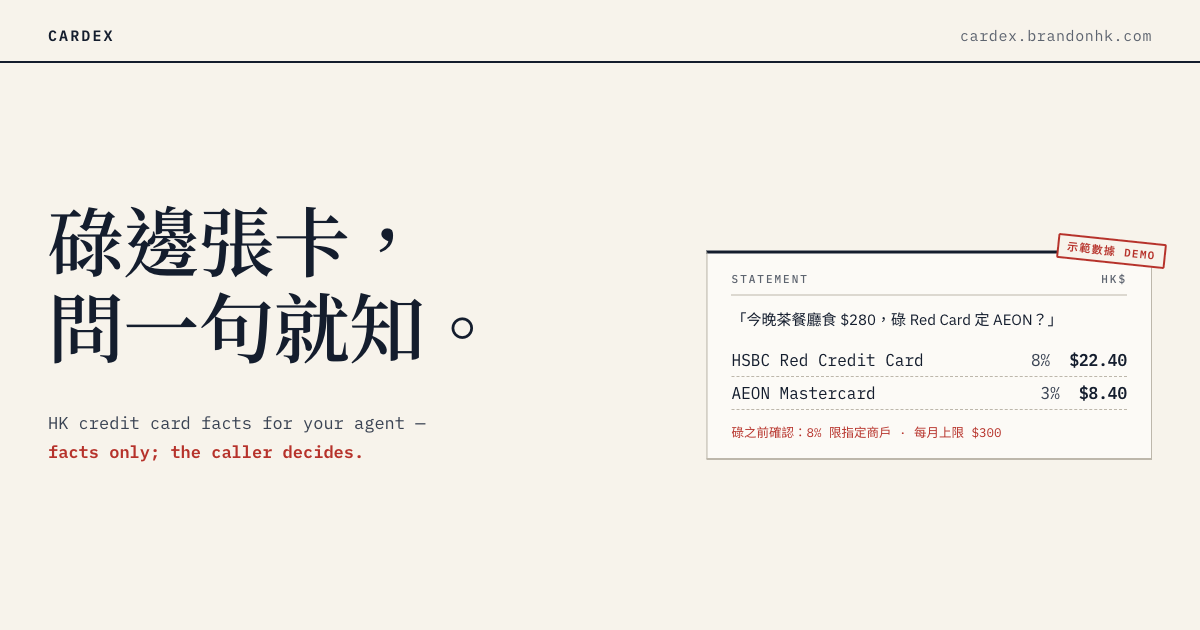
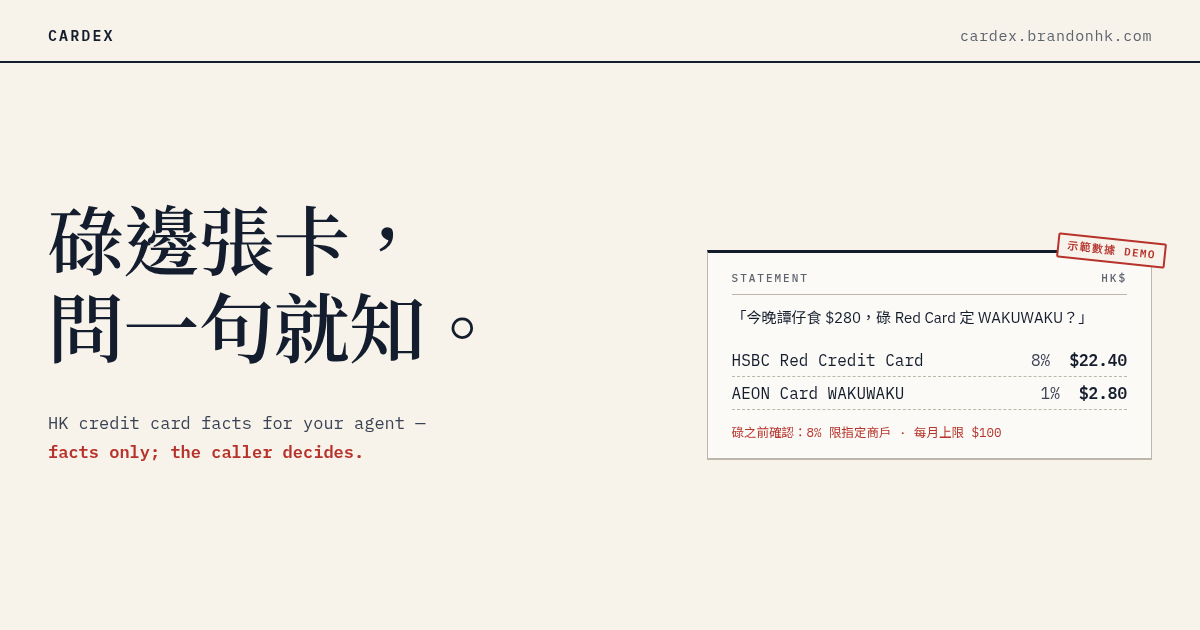
fix(site): demo a listed-merchant meal and sort by rebate
The slip implied Red pays 8% at any cha chaan teng. The scenario
is now dinner at TamJai, a listed merchant, so the merchant check
resolves and the 8% applies for the right reason; a new note under
the table says the boosted rate is designated-merchant only.

- demo-score.json regenerated from a real score_candidates call
  ({ amount_hkd: 280, alias: "茶餐廳", merchant: "譚仔",
    card_ids: [card_hsbc_red, card_aeon] }) on the updated seed.
- Candidates sort by calculated rebate for display; the tool keeps
  card_id order — the caller sorts, per PRD.
- Foot stops claiming every figure shows an issuer-terms link and
  a last-checked date (the slip shows neither); it now cites the
  seed date and defers that promise to verified records, matching
  the stamp and FAQ.
- og.png re-rendered from designs/og/og.html to match.

diff --git a/packages/site/src/i18n/en.ts b/packages/site/src/i18n/en.ts
@@ -46,18 +46,19 @@ export const en: UI = {
     label: "Example answer",
     by: "your assistant + Cardex",
     askedLabel: "You asked",
-    asked: "“Dinner at a cha chaan teng tonight, about $280. Red Card or AEON?”",
+    asked: "“Dinner at TamJai tonight, about $280. Red Card or WAKUWAKU?”",
     colCard: "Card",
     colRate: "Dining",
     colBack: "Back on $280",
+    note: "Red's 8% is a designated-merchant rate — it applies because TamJai is on the illustrative list.",
     catchHeading: "Before you tap, check",
     unknowns: {
       cap_remaining: "{card} caps this rebate each month. How much have you earned so far?",
       merchant_list: "{card} only pays this rate at listed merchants. Is this one on the list?",
       octopus_topup: "{card} excludes Octopus top-ups. Not relevant to dinner.",
     },
-    cardNames: { card_hsbc_red: "Red Card", card_aeon: "AEON" },
-    foot: "Figures and open checks are Cardex's real response on illustrative data. Every figure links to the issuer's terms and the date it was last checked.",
+    cardNames: { card_hsbc_red: "Red Card", card_aeon: "WAKUWAKU" },
+    foot: "Figures and open checks are Cardex's real response on the illustrative seed (as of {date}), not issuer terms. Verified records carry the terms link and last-checked date.",
     stamp: ["Illustrative", "not real terms"],
   },
   pain: {

diff --git a/packages/site/src/i18n/zh-HK.ts b/packages/site/src/i18n/zh-HK.ts
@@ -44,18 +44,19 @@ export const zhHK = {
     label: "示範答案",
     by: "你嘅 AI 助手 + Cardex",
     askedLabel: "你問",
-    asked: "「今晚茶餐廳食 $280，碌 Red Card 定 AEON？」",
+    asked: "「今晚譚仔食 $280，碌 Red Card 定 WAKUWAKU？」",
     colCard: "卡",
     colRate: "食肆",
     colBack: "$280 回贈",
+    note: "Red 嘅 8% 只限指定商戶——譚仔喺示範名單上，先計到呢個率。",
     catchHeading: "碌之前確認吓",
     unknowns: {
       cap_remaining: "{card} 回贈每月有上限，你今個月賺咗幾多？",
       merchant_list: "{card} 呢個回贈只限指定商戶，呢間喺唔喺名單？",
       octopus_topup: "{card} 唔計八達通增值，食飯唔關事。",
     },
-    cardNames: { card_hsbc_red: "Red Card", card_aeon: "AEON" },
-    foot: "數字同待確認項目係 Cardex 對示範數據嘅真實回應；每個數字都附發卡行條款連結同最後核實日期。",
+    cardNames: { card_hsbc_red: "Red Card", card_aeon: "WAKUWAKU" },
+    foot: "數字同待確認項目係 Cardex 對示範數據（{date}）嘅真實回應，唔係發卡行條款；真數據會附條款連結同最後核實日期。",
     stamp: ["示範數據", "非真實條款"],
   },
   pain: {

diff --git a/designs/og/og.html b/designs/og/og.html
@@ -11,7 +11,7 @@
 <html lang="zh-HK">
   <head>
     <meta charset="utf-8" />
-    <link rel="stylesheet" href="/_astro/Base.h-n_gzan.css" />
+    <link rel="stylesheet" href="/_astro/Base.W7Cmhq_e.css" />
     <style>
       :root {
         --color-paper: oklch(96.5% 0.012 85);
@@ -70,10 +70,10 @@
       <div class="slip">
         <div class="og-stamp">示範數據 DEMO</div>
         <div class="head"><span>STATEMENT</span><span>HK$</span></div>
-        <p class="q">「今晚茶餐廳食 $280，碌 Red Card 定 AEON？」</p>
+        <p class="q">「今晚譚仔食 $280，碌 Red Card 定 WAKUWAKU？」</p>
         <div class="row"><span>HSBC Red Credit Card</span><span><span class="pct">8%</span>&nbsp;&nbsp;<span class="amt">$22.40</span></span></div>
-        <div class="row"><span>AEON Mastercard</span><span><span class="pct">3%</span>&nbsp;&nbsp;<span class="amt">$8.40</span></span></div>
-        <div class="warn">碌之前確認：8% 限指定商戶 · 每月上限 $300</div>
+        <div class="row"><span>AEON Card WAKUWAKU</span><span><span class="pct">1%</span>&nbsp;&nbsp;<span class="amt">$2.80</span></span></div>
+        <div class="warn">碌之前確認：8% 限指定商戶 · 每月上限 $100</div>
       </div>
     </div>
   </body>

diff --git a/packages/site/src/styles/global.css b/packages/site/src/styles/global.css
@@ -129,6 +129,7 @@ html[lang="zh-HK"] .hero h1 { letter-spacing: 0.01em; line-height: 1.15; }
 .lines td { padding: var(--space-sm) 0; border-bottom: var(--rule-hair) dotted var(--color-rule); vertical-align: baseline; }
 .lines th:not(:first-child), .lines td:not(:first-child) { text-align: right; padding-left: var(--space-sm); white-space: nowrap; }
 .lines td.amt { font-size: var(--text-lg); font-weight: 600; }
+.slip-note { margin: var(--space-md) 0 0; font-size: var(--text-xs); color: var(--color-muted); }
 .catch { margin-top: var(--space-lg); }
 .catch h3 { font: 600 var(--text-xs)/1.4 var(--font-mono); text-transform: uppercase; letter-spacing: 0.08em; color: var(--color-accent); margin-bottom: var(--space-xs); }
 .catch ul { margin: 0; padding: 0; list-style: none; }

diff --git a/packages/site/src/data/demo.ts b/packages/site/src/data/demo.ts
@@ -4,10 +4,11 @@ import score from "./demo-score.json";
 // local seed (pnpm migrate && pnpm seed && pnpm dev). Regenerate it with the
 // same request after a seed change; never hand-edit the numbers.
 //   tools/call score_candidates
-//   { "amount_hkd": 280, "alias": "茶餐廳", "card_ids": ["card_hsbc_red", "card_aeon"] }
+//   { "amount_hkd": 280, "alias": "茶餐廳", "merchant": "譚仔", "card_ids": ["card_hsbc_red", "card_aeon"] }
 export const demoCall = {
   amount_hkd: 280,
   alias: "茶餐廳",
+  merchant: "譚仔",
   card_ids: ["card_hsbc_red", "card_aeon"],
 } as const;
 
